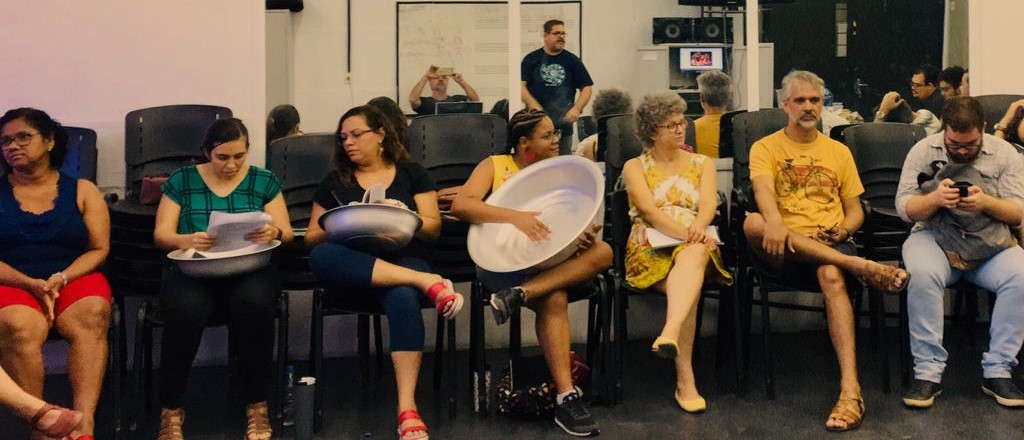
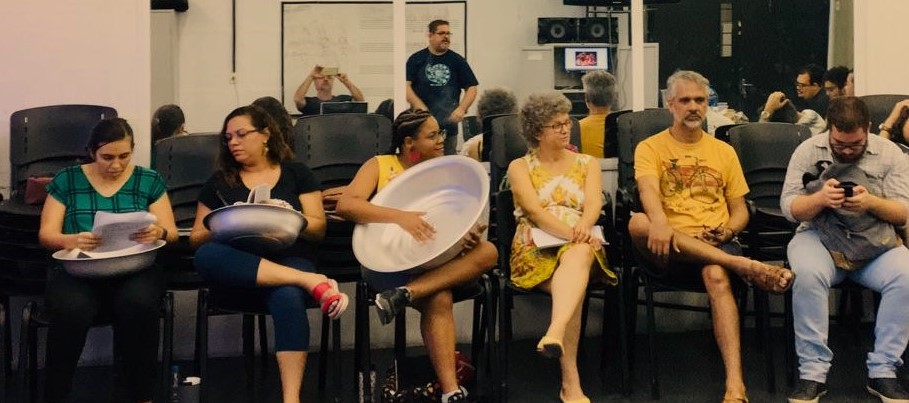
Trocando a foto de Vanessa e tirando Fábia da foto

diff --git a/portfolio-cantos-trabalho.html b/portfolio-cantos-trabalho.html
@@ -154,9 +154,11 @@
 						<a href="portfolio.html" class="link-button"><span>GO BACK TO PORTFOLIO</span></a>-->
 					</div>
 					<!-- ENDS title -->
-					<i>Foto de Ensaio</i>
-					<img src="img/gallery/cantos-trabalho-ensaio/capa.jpg" alt="Thumb" class="portfolio-image"/>
-
+					<div style="padding-left: 35px">
+						<i>Foto de Ensaio</i>
+						<img src="img/gallery/cantos-trabalho-ensaio/capa.jpg" alt="Thumb" class="portfolio-image" style="width: 930px" />	
+					</div>
+					
 					<!-- page-content -->
 					<div class="page-content">
 
